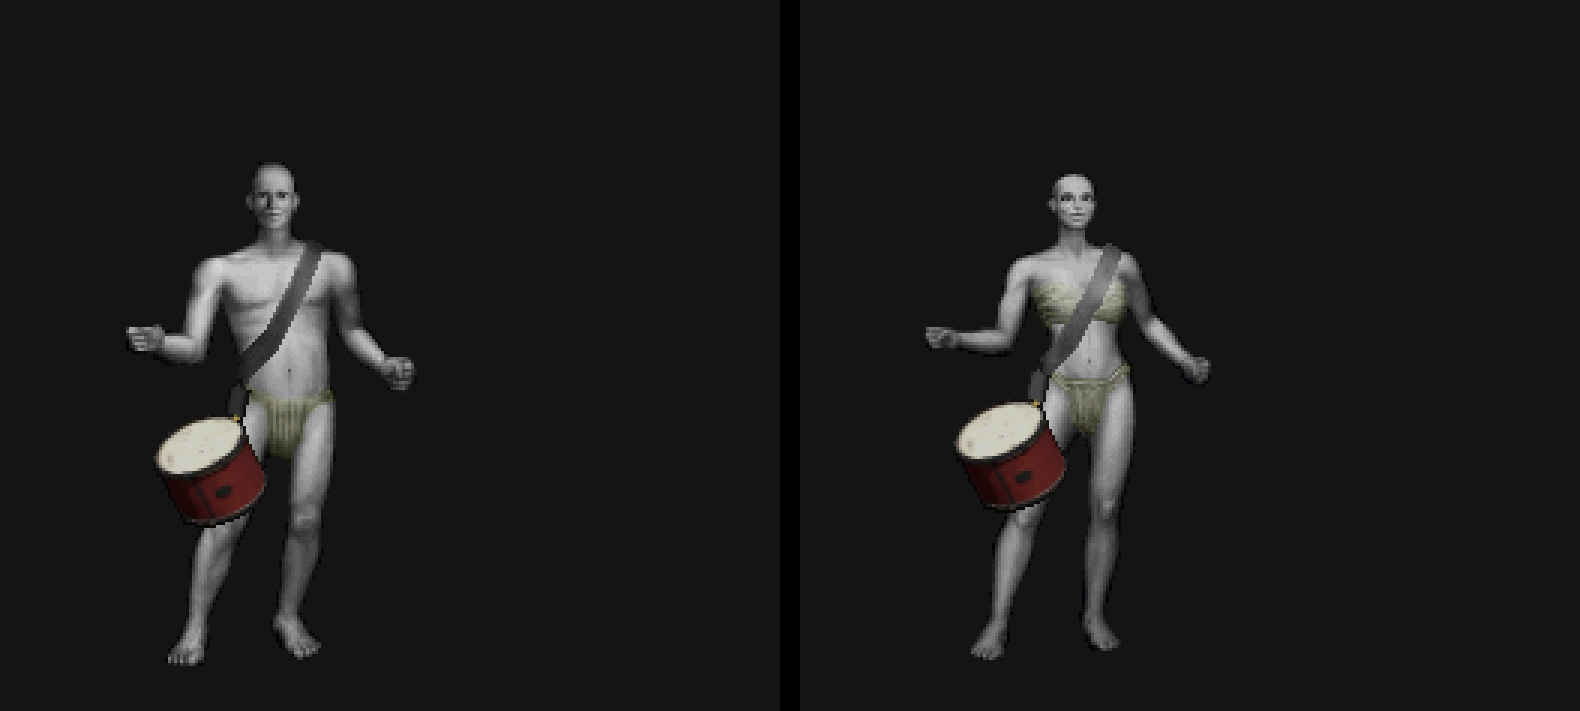
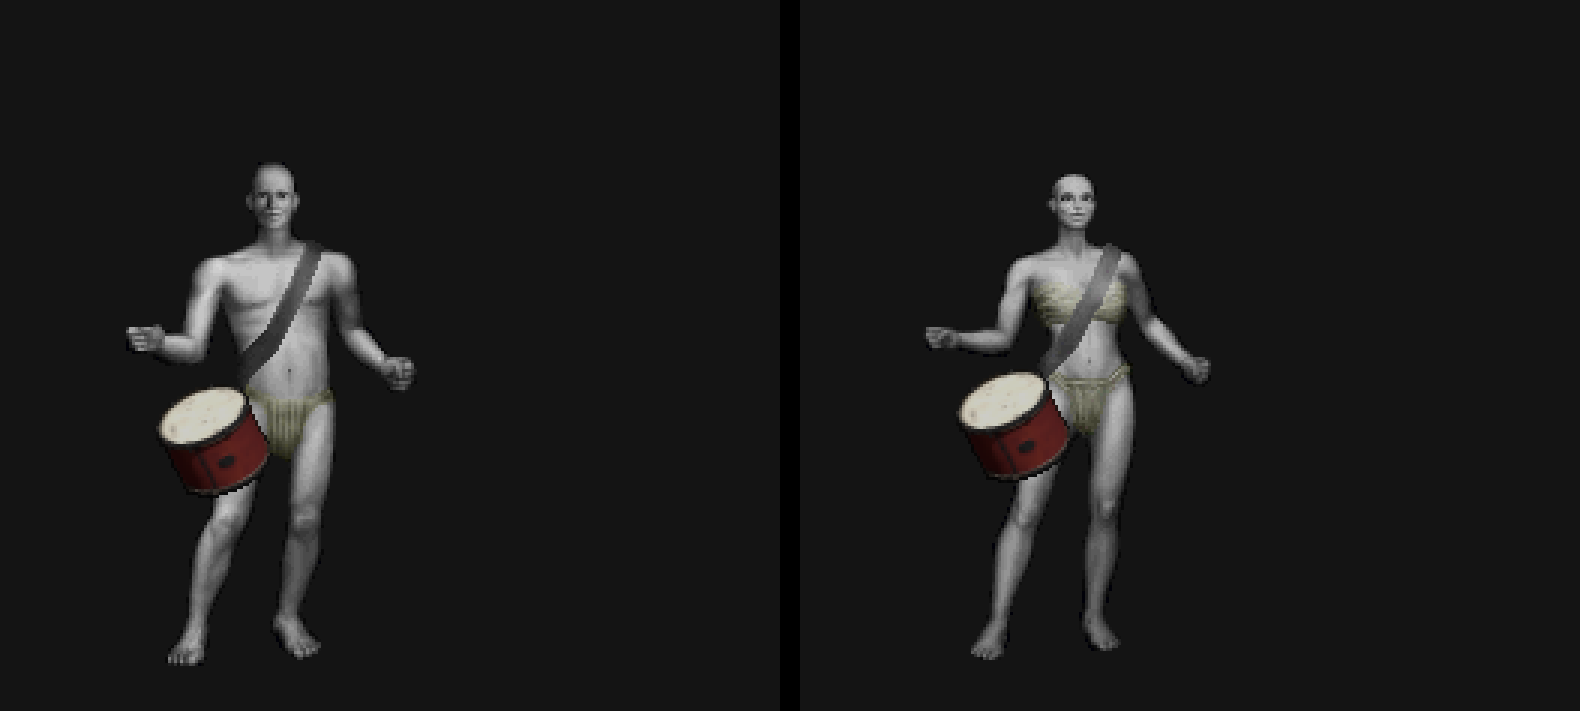
UOModel3D: paperdoll drum higher: the original sash ends under the rim of the drum, no added strap
uo_render_drum_gump.py: EXTEND_STRAP off by default; the height of the drum is found so that its upper rim covers the lower end of the original sash by 2 px: centre (71, 147) male, (71, 142) female. Gumps rendered again, art unchanged.

Claude-Session: https://claude.ai/code/session_01HoZBNiA7Uejn9TTH2dvS3k

Changed region(s): [[0.093, 0.526, 0.1861, 0.7426], [0.5892, 0.526, 0.6823, 0.7117]]

diff --git a/pipeline/uo_render_drum_gump.py b/pipeline/uo_render_drum_gump.py
@@ -22,7 +22,9 @@ GW, GH = 260, 237
 GX0, GY_FEET = 94.5, 221.0
 SS = 4
 # the drum on the paperdoll (gump pixels of its centre; female: the waist of the body gump 13 is ca. 7 px higher)
-CENTRE = {"male": (70.0, 157.0), "female": (70.0, 152.0)}
+CENTRE = {"male": (71.0, 150.0), "female": (71.0, 145.0)}            # the height is then set so that the rim of the drum covers the lower end of the original sash (EXTEND_STRAP off)
+EXTEND_STRAP = False                            # True: a strap of the same grey is drawn from the end of the original sash to the rim (the drum hangs lower)
+TUCK = 2.0                                      # px: the drum covers the end of the sash by this much
 HEAD_N = Vector((-0.34, -0.52, 0.79))           # direction the upper head looks (x: to the left of the picture = the right of the character, -y: to the viewer, z: up)
 STRAP_END = {"male": (80.0, 130.0), "female": (80.0, 125.0)}   # the lower end of the original sash on each gump
 STRAP_W = 6.5                                   # px; the original sash is 7-9 px wide
@@ -130,44 +132,59 @@ for gender, gid in (("male", 50490), ("female", 60490)):
     drum = make_drum("drum_" + gender)
     aim(drum, HEAD_N, Vector((0, -1, 0.2)))
     gx, gy = CENTRE[gender]
-    drum.location = ((gx - GX0) / PXM, -0.5, (GY_FEET - gy) / PXM)
-    bpy.context.view_layer.update()
     W, H = GW * SS, GH * SS
     cxw = (GW / 2 - GX0) / PXM; czw = (GY_FEET - GH / 2) / PXM
-    a = render(tmp, W, H, PXM * SS, cxw, czw, [drum])
-    da = box_down(a, SS); da[..., :3] = np.minimum(da[..., :3] * GAIN, CEIL / 255.0)
-    d = rim(np.clip(da * 255 + 0.5, 0, 255).astype(np.uint8), OUTLINE)
-    dm = d[..., 3] > 0
-    ys, xs = np.nonzero(dm)
-    print("%s: drum px %d, bbox x %d..%d y %d..%d" % (gender, dm.sum(), xs.min(), xs.max(), ys.min(), ys.max()))
-    # the strap from the lower end of the original sash to the rim of the drum: the point of the silhouette nearest to the end of the sash, on its upper left side
     sx, sy = STRAP_END[gender]
-    cand = np.stack([xs, ys], 1).astype(float)
-    top = cand[cand[:, 1] < gy - 0.1 * (ys.max() - ys.min())]
-    att = top[np.argmin(((top - [sx - 1.0, sy + 3.0]) ** 2).sum(1))]
-    tang = np.array([-0.37, 0.93])                                      # the direction in which the original sash arrives at its lower end (measured on the client's gumps)
-    dist = float(np.hypot(att[0] - sx, att[1] - sy))
-    ctrl = (sx + tang[0] * dist * 0.5, sy + tang[1] * dist * 0.5)
-    path = bezier((sx, sy), ctrl, (att[0] + 0.5, att[1] + 1.0))
-    # grey levels like the original sash near its end
-    mm = sash[..., 3] > 0
-    yy, xx = np.nonzero(mm)
-    end = sash[yy.max() - 8:yy.max() - 2][sash[yy.max() - 8:yy.max() - 2, :, 3] > 0][:, :3].mean(0) if mm.any() else np.array([60, 60, 60])
-    lvl = float(end.mean()) if not np.isnan(end).any() else 60.0
-    S2 = 4
-    st = Image.new("RGBA", (GW * S2, GH * S2), (0, 0, 0, 0)); dr = ImageDraw.Draw(st)
-    dr.line([tuple(p * S2) for p in path], fill=(int(lvl * 0.8), int(lvl * 0.8), int(lvl * 0.8), 255), width=int(STRAP_W * S2), joint="curve")
-    dr.line([tuple((p + [-0.2, -0.2]) * S2) for p in path], fill=(int(lvl * 1.3), int(lvl * 1.3), int(lvl * 1.3), 255), width=int((STRAP_W - 2.5) * S2), joint="curve")
-    st = np.array(st).reshape(GH, S2, GW, S2, 4)
-    sa = st[..., 3].mean((1, 3)) >= 0.5
-    srgb = (st[..., :3].astype(float) * st[..., 3:] / 255.0).sum((1, 3)) / np.maximum((st[..., 3] / 255.0).sum((1, 3)), 1e-6)[..., None]
-    strap = np.zeros((GH, GW, 4), np.uint8); strap[..., :3] = np.clip(srgb + 0.5, 0, 255).astype(np.uint8); strap[..., 3] = sa * 255
-    strap = rim(strap, 0.55)
+    for it in range(4):                           # the drum is put at (gx, gy); then moved so that its top edge in the columns of the sash end lies TUCK px above the end of the sash
+        drum.location = ((gx - GX0) / PXM, -0.5, (GY_FEET - gy) / PXM)
+        bpy.context.view_layer.update()
+        a = render(tmp, W, H, PXM * SS, cxw, czw, [drum])
+        da = box_down(a, SS); da[..., :3] = np.minimum(da[..., :3] * GAIN, CEIL / 255.0)
+        d = rim(np.clip(da * 255 + 0.5, 0, 255).astype(np.uint8), OUTLINE)
+        dm = d[..., 3] > 0
+        ys, xs = np.nonzero(dm)
+        if EXTEND_STRAP:
+            break
+        cols = dm[:, int(sx) - 2:int(sx) + 3]
+        if not cols.any():
+            gx += 1.0; continue
+        top_at_end = np.nonzero(cols.any(1))[0].min()
+        err = (sy - TUCK) - top_at_end
+        if abs(err) < 0.5:
+            break
+        gy += err
+    print("%s: drum centre (%.1f, %.1f)" % (gender, gx, gy))
+    print("%s: drum px %d, bbox x %d..%d y %d..%d" % (gender, dm.sum(), xs.min(), xs.max(), ys.min(), ys.max()))
+    # (EXTEND_STRAP) the strap from the lower end of the original sash to the rim of the drum: the point of the silhouette nearest to the end of the sash
+    strap = np.zeros((GH, GW, 4), np.uint8)
+    if EXTEND_STRAP:
+        cand = np.stack([xs, ys], 1).astype(float)
+        top = cand[cand[:, 1] < gy - 0.1 * (ys.max() - ys.min())]
+        att = top[np.argmin(((top - [sx - 1.0, sy + 3.0]) ** 2).sum(1))]
+        tang = np.array([-0.37, 0.93])                                      # the direction in which the original sash arrives at its lower end (measured on the client's gumps)
+        dist = float(np.hypot(att[0] - sx, att[1] - sy))
+        ctrl = (sx + tang[0] * dist * 0.5, sy + tang[1] * dist * 0.5)
+        path = bezier((sx, sy), ctrl, (att[0] + 0.5, att[1] + 1.0))
+        # grey levels like the original sash near its end
+        mm = sash[..., 3] > 0
+        yy, xx = np.nonzero(mm)
+        end = sash[yy.max() - 8:yy.max() - 2][sash[yy.max() - 8:yy.max() - 2, :, 3] > 0][:, :3].mean(0) if mm.any() else np.array([60, 60, 60])
+        lvl = float(end.mean()) if not np.isnan(end).any() else 60.0
+        S2 = 4
+        st = Image.new("RGBA", (GW * S2, GH * S2), (0, 0, 0, 0)); dr = ImageDraw.Draw(st)
+        dr.line([tuple(p * S2) for p in path], fill=(int(lvl * 0.8), int(lvl * 0.8), int(lvl * 0.8), 255), width=int(STRAP_W * S2), joint="curve")
+        dr.line([tuple((p + [-0.2, -0.2]) * S2) for p in path], fill=(int(lvl * 1.3), int(lvl * 1.3), int(lvl * 1.3), 255), width=int((STRAP_W - 2.5) * S2), joint="curve")
+        st = np.array(st).reshape(GH, S2, GW, S2, 4)
+        sa = st[..., 3].mean((1, 3)) >= 0.5
+        srgb = (st[..., :3].astype(float) * st[..., 3:] / 255.0).sum((1, 3)) / np.maximum((st[..., 3] / 255.0).sum((1, 3)), 1e-6)[..., None]
+        strap = np.zeros((GH, GW, 4), np.uint8); strap[..., :3] = np.clip(srgb + 0.5, 0, 255).astype(np.uint8); strap[..., 3] = sa * 255
+        strap = rim(strap, 0.55)
     out = np.zeros((GH, GW, 4), np.uint8)
     out = paste(out, sash); out = paste(out, strap); out = paste(out, d)
-    ax, ay = int(round(att[0] + 0.5)), int(round(att[1] + 1.0))            # the ring over the end of the strap and the rim of the drum
-    for dx, dy, f in ((0, 0, 1.0), (1, 0, 0.8), (0, 1, 0.8), (-1, 0, 0.6), (0, -1, 0.6)):
-        out[ay + dy, ax + dx] = (int(RING[0] * f), int(RING[1] * f), int(RING[2] * f), 255)
+    if EXTEND_STRAP:
+        ax, ay = int(round(att[0] + 0.5)), int(round(att[1] + 1.0))            # the ring over the end of the strap and the rim of the drum
+        for dx, dy, f in ((0, 0, 1.0), (1, 0, 0.8), (0, 1, 0.8), (-1, 0, 0.6), (0, -1, 0.6)):
+            out[ay + dy, ax + dx] = (int(RING[0] * f), int(RING[1] * f), int(RING[2] * f), 255)
     Image.fromarray(out).save(os.path.join(OUT, "gump_%s.png" % gender))
     results[gender] = out
     bpy.data.objects.remove(drum, do_unlink=True)

diff --git a/model/items/drum_meshy/paperdoll/README.md b/model/items/drum_meshy/paperdoll/README.md
@@ -11,7 +11,7 @@ Made from the 3D drum of the animation (`Drum_meshy_sash.vd`) and the ORIGINAL b
 | `preview.png` | | the two gumps on the drawn bodies, 3x |
 | `preview_art.png` | | the two arts, 8x |
 
-**Gump.** The original sash of the client is kept pixel for pixel (it already fits the drawn bodies: from the left shoulder across the chest to the right waist, 7-9 px wide). A strap of the same grey continues from its lower end in the direction in which the sash arrives (measured on the client's gumps) to the rim of the drum, where a small brass ring sits. The drum is the 3D model (orthographic front view, 90.5 px/m like the body gump: head top y 54, feet y 221; UO light, own shadow, 4 x 4 supersampling, edge pixels x 0.5): it hangs at the right hip (the left of the picture), **lower and nearer the legs than on the animation** (there it rides on the chest), its axis tilted so that the head looks up, out and to the front, centre at gump pixel (70, 157) male / (70, 152) female (the waist of the body gump 13 is ca. 7 px higher). Brightness x 0.8, no channel above 215 (the UO light from the front lit the white head to white).
+**Gump.** The original sash of the client is kept pixel for pixel (it already fits the drawn bodies: from the left shoulder across the chest to the right waist, 7-9 px wide) and NOTHING is added to it: the drum hangs at the right hip (the left of the picture) high enough that the lower end of the sash goes straight under its upper rim (the rim covers the end by 2 px; the height is found by the script from the columns of that end: centre at gump pixel (71, 147) male / (71, 142) female; the waist of the body gump 13 is ca. 7 px higher). A first version hung lower (centre (70, 157)) and needed a strap of the same grey from the end of the sash to the rim: `EXTEND_STRAP = True` in the script brings it back. The drum is the 3D model (orthographic front view, 90.5 px/m like the body gump: head top y 54, feet y 221; UO light, own shadow, 4 x 4 supersampling, edge pixels x 0.5), its axis tilted so that the head looks up, out and to the front. Brightness x 0.8, no channel above 215 (the UO light from the front lit the white head to white).
 **Art.** The drum lying on the ground (the head up, towards a camera 55 degrees above the horizon, a little turned), the strap as a loop attached to its right rim like a handle; 56 px/m (the drum 23 px); the second art is the mirror.
 **Colours.** The strap is grey (R = G = B) like the original sash: it takes the hue of a dye. The drum is red / cream: set the tiledata flag PartialHue (0x00040000) of the item so that only the grey pixels are dyed (`uo_hue_preview.py` shows both).
 **Rebuild.** The originals: `python pipeline/uo_gump_art.py gump CLIENT_DIR 12|13|50490|60490 OUT.png` into one folder (`gump12.png`, `gump13.png`, `gump50490.png`, `gump60490.png`), then `PD_OUT=DIR PD_GUMPS=THAT_FOLDER python pipeline/run_script_in_blend.py ITEM.blend pipeline/uo_render_drum_gump.py` (ITEM.blend: the item of `drum_only.json` built by `uo_make_item.py`). Position, tilt, brightness: the settings at the top of the script. The client data are not in the repo (see the skill uo-client-data); the gump PNGs of the client are not committed.
